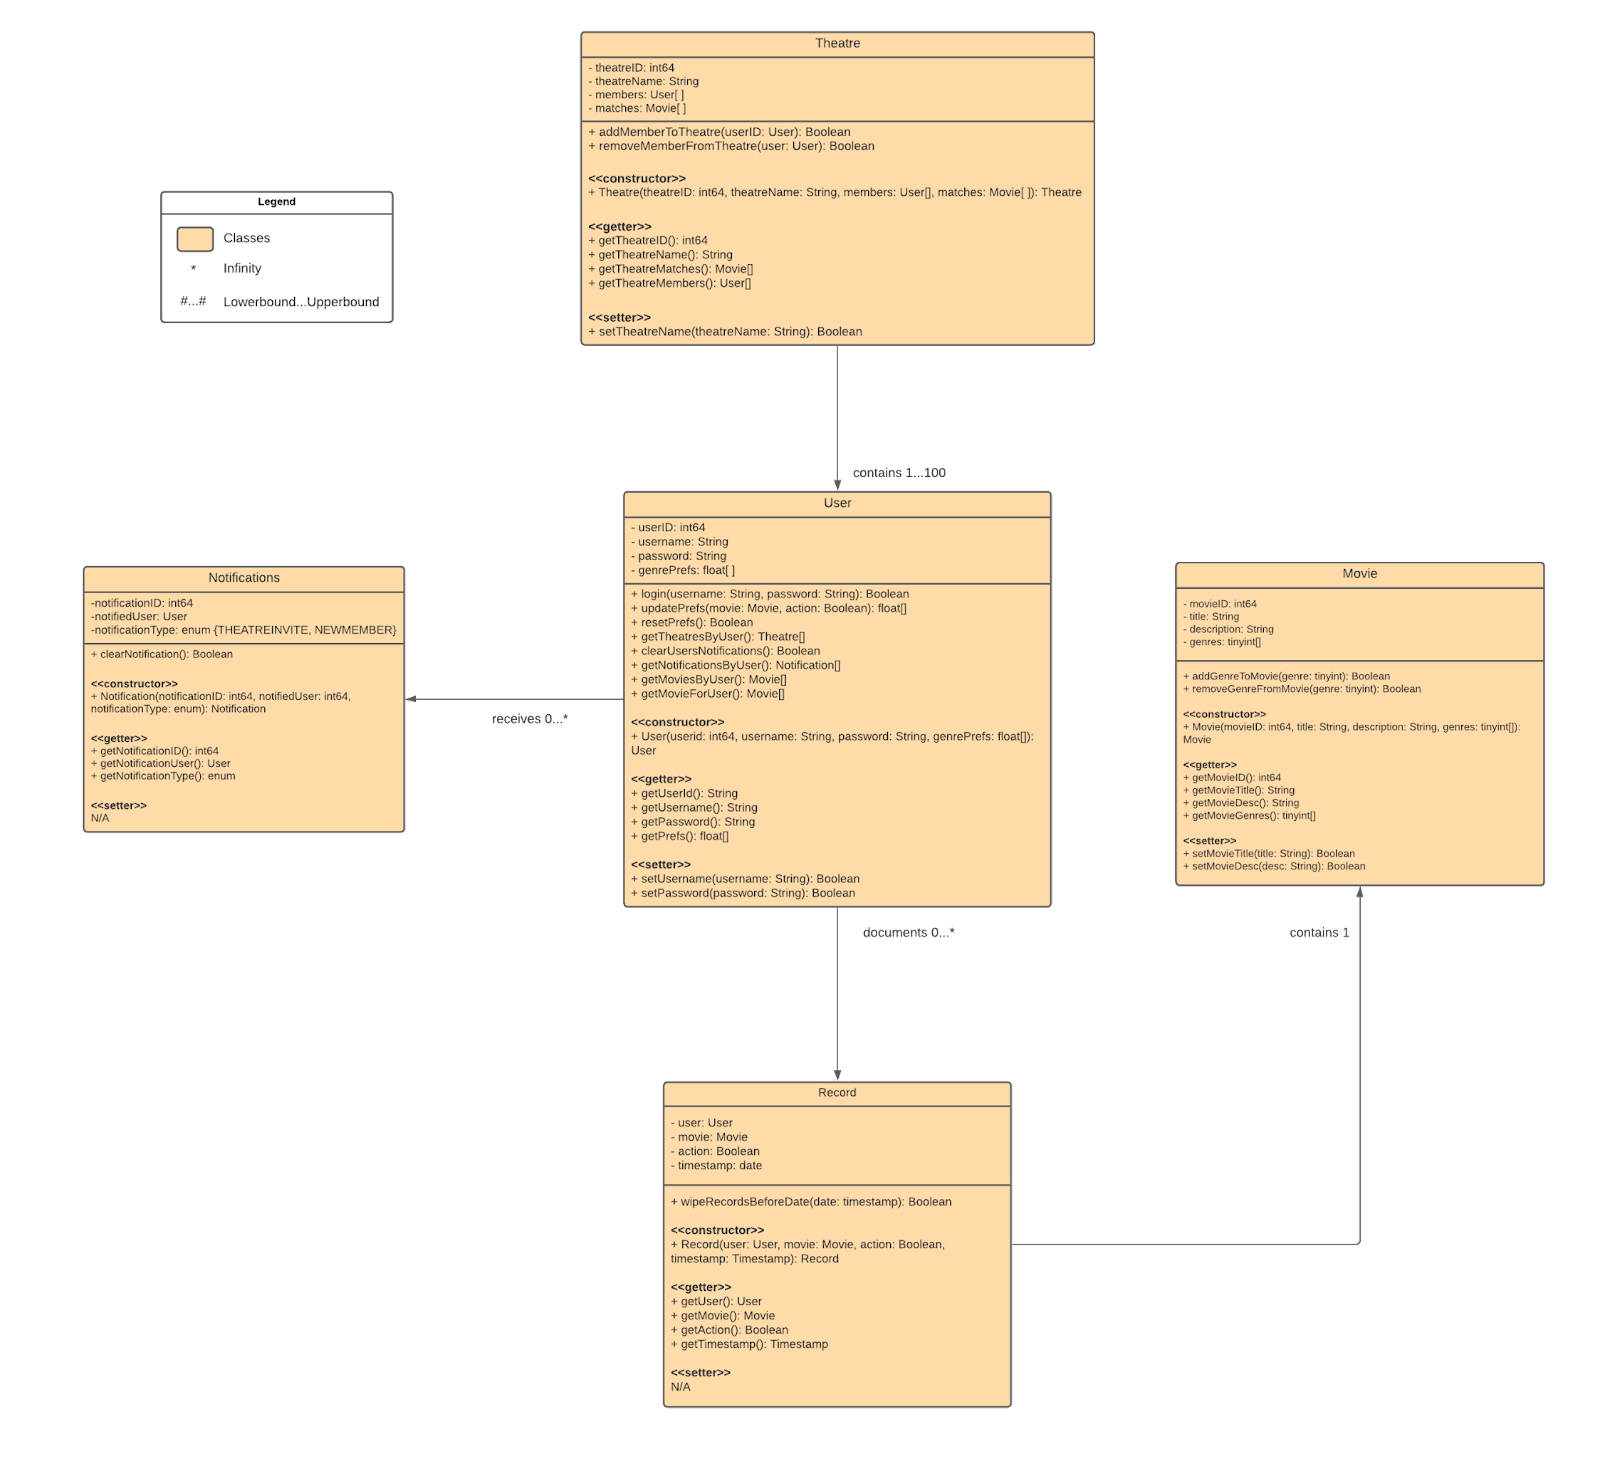
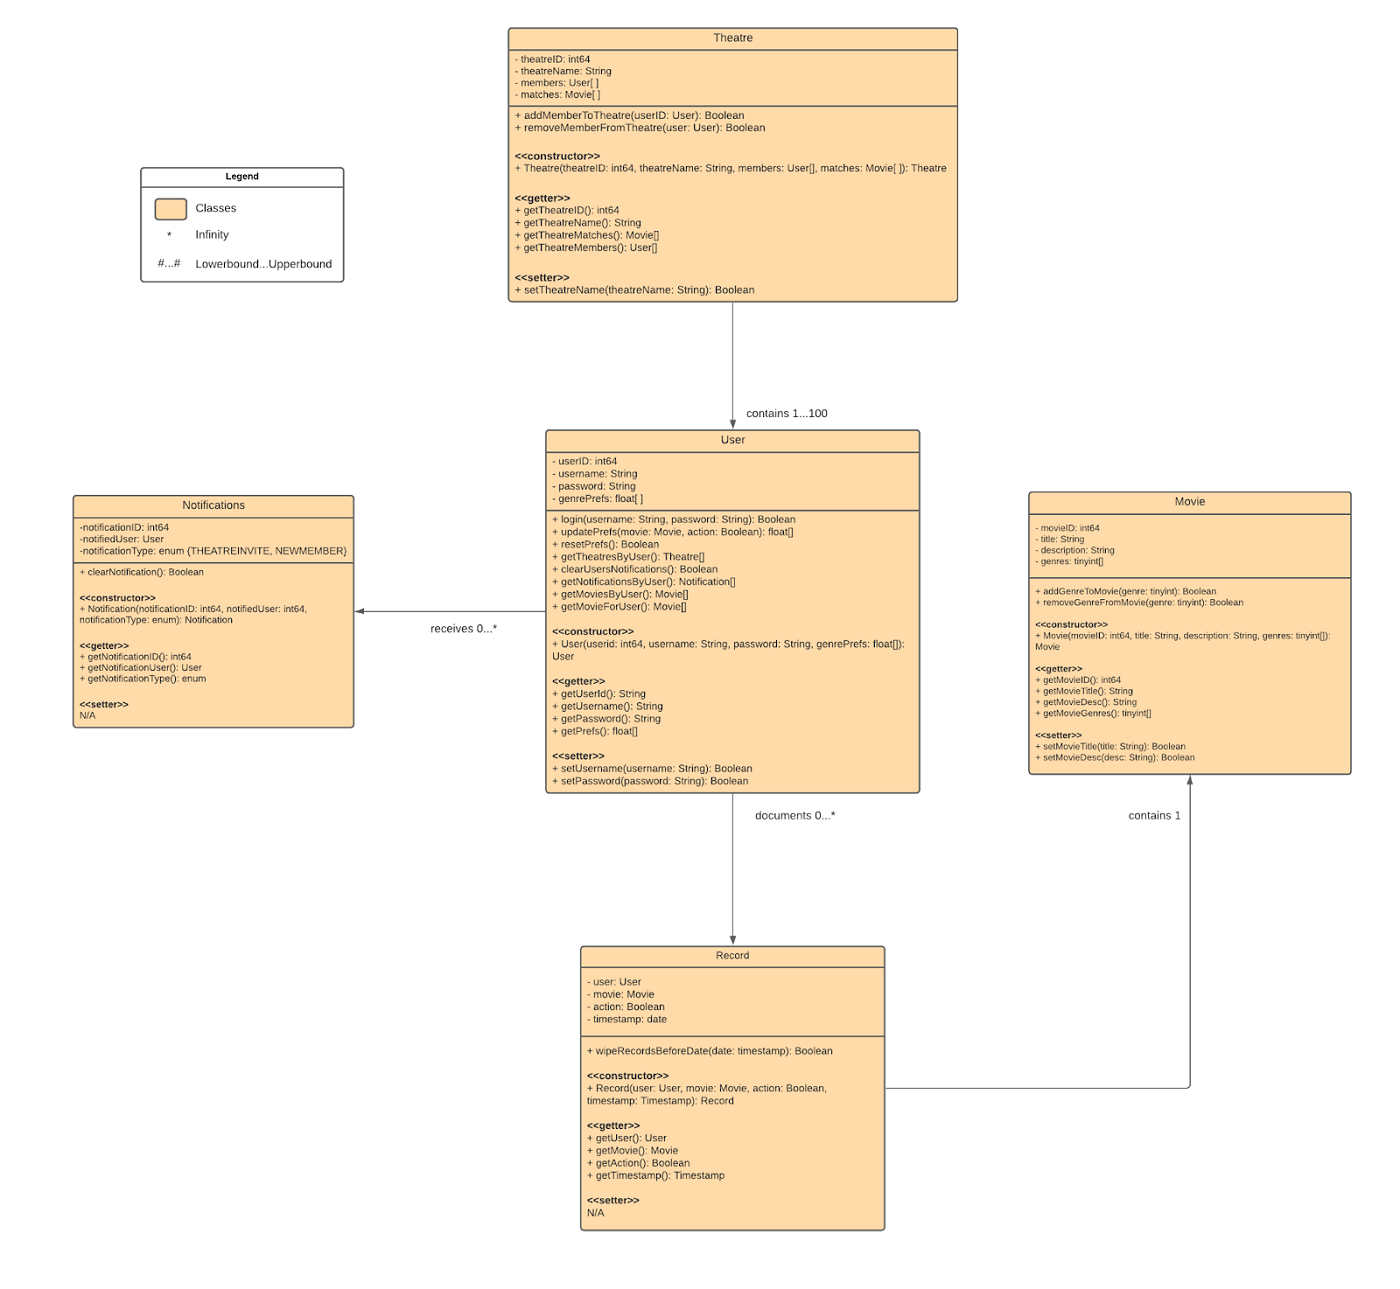
resizing the back end class diagram image

diff --git a/design.html b/design.html
@@ -302,7 +302,7 @@
             <h3>High Level Package Diagram</h3>
             <img src="assets/high level package diagram.PNG" />
             <h3>Back-End Class Diagram</h3>
-            <img src="assets/back end class diagram.PNG" width="1400"/>
+            <img src="assets/back end class diagram.PNG"/>
             <h3>Database Diagram</h3>
             <img src="assets/UML Diagram.PNG" width="1400"/>
           </div>
